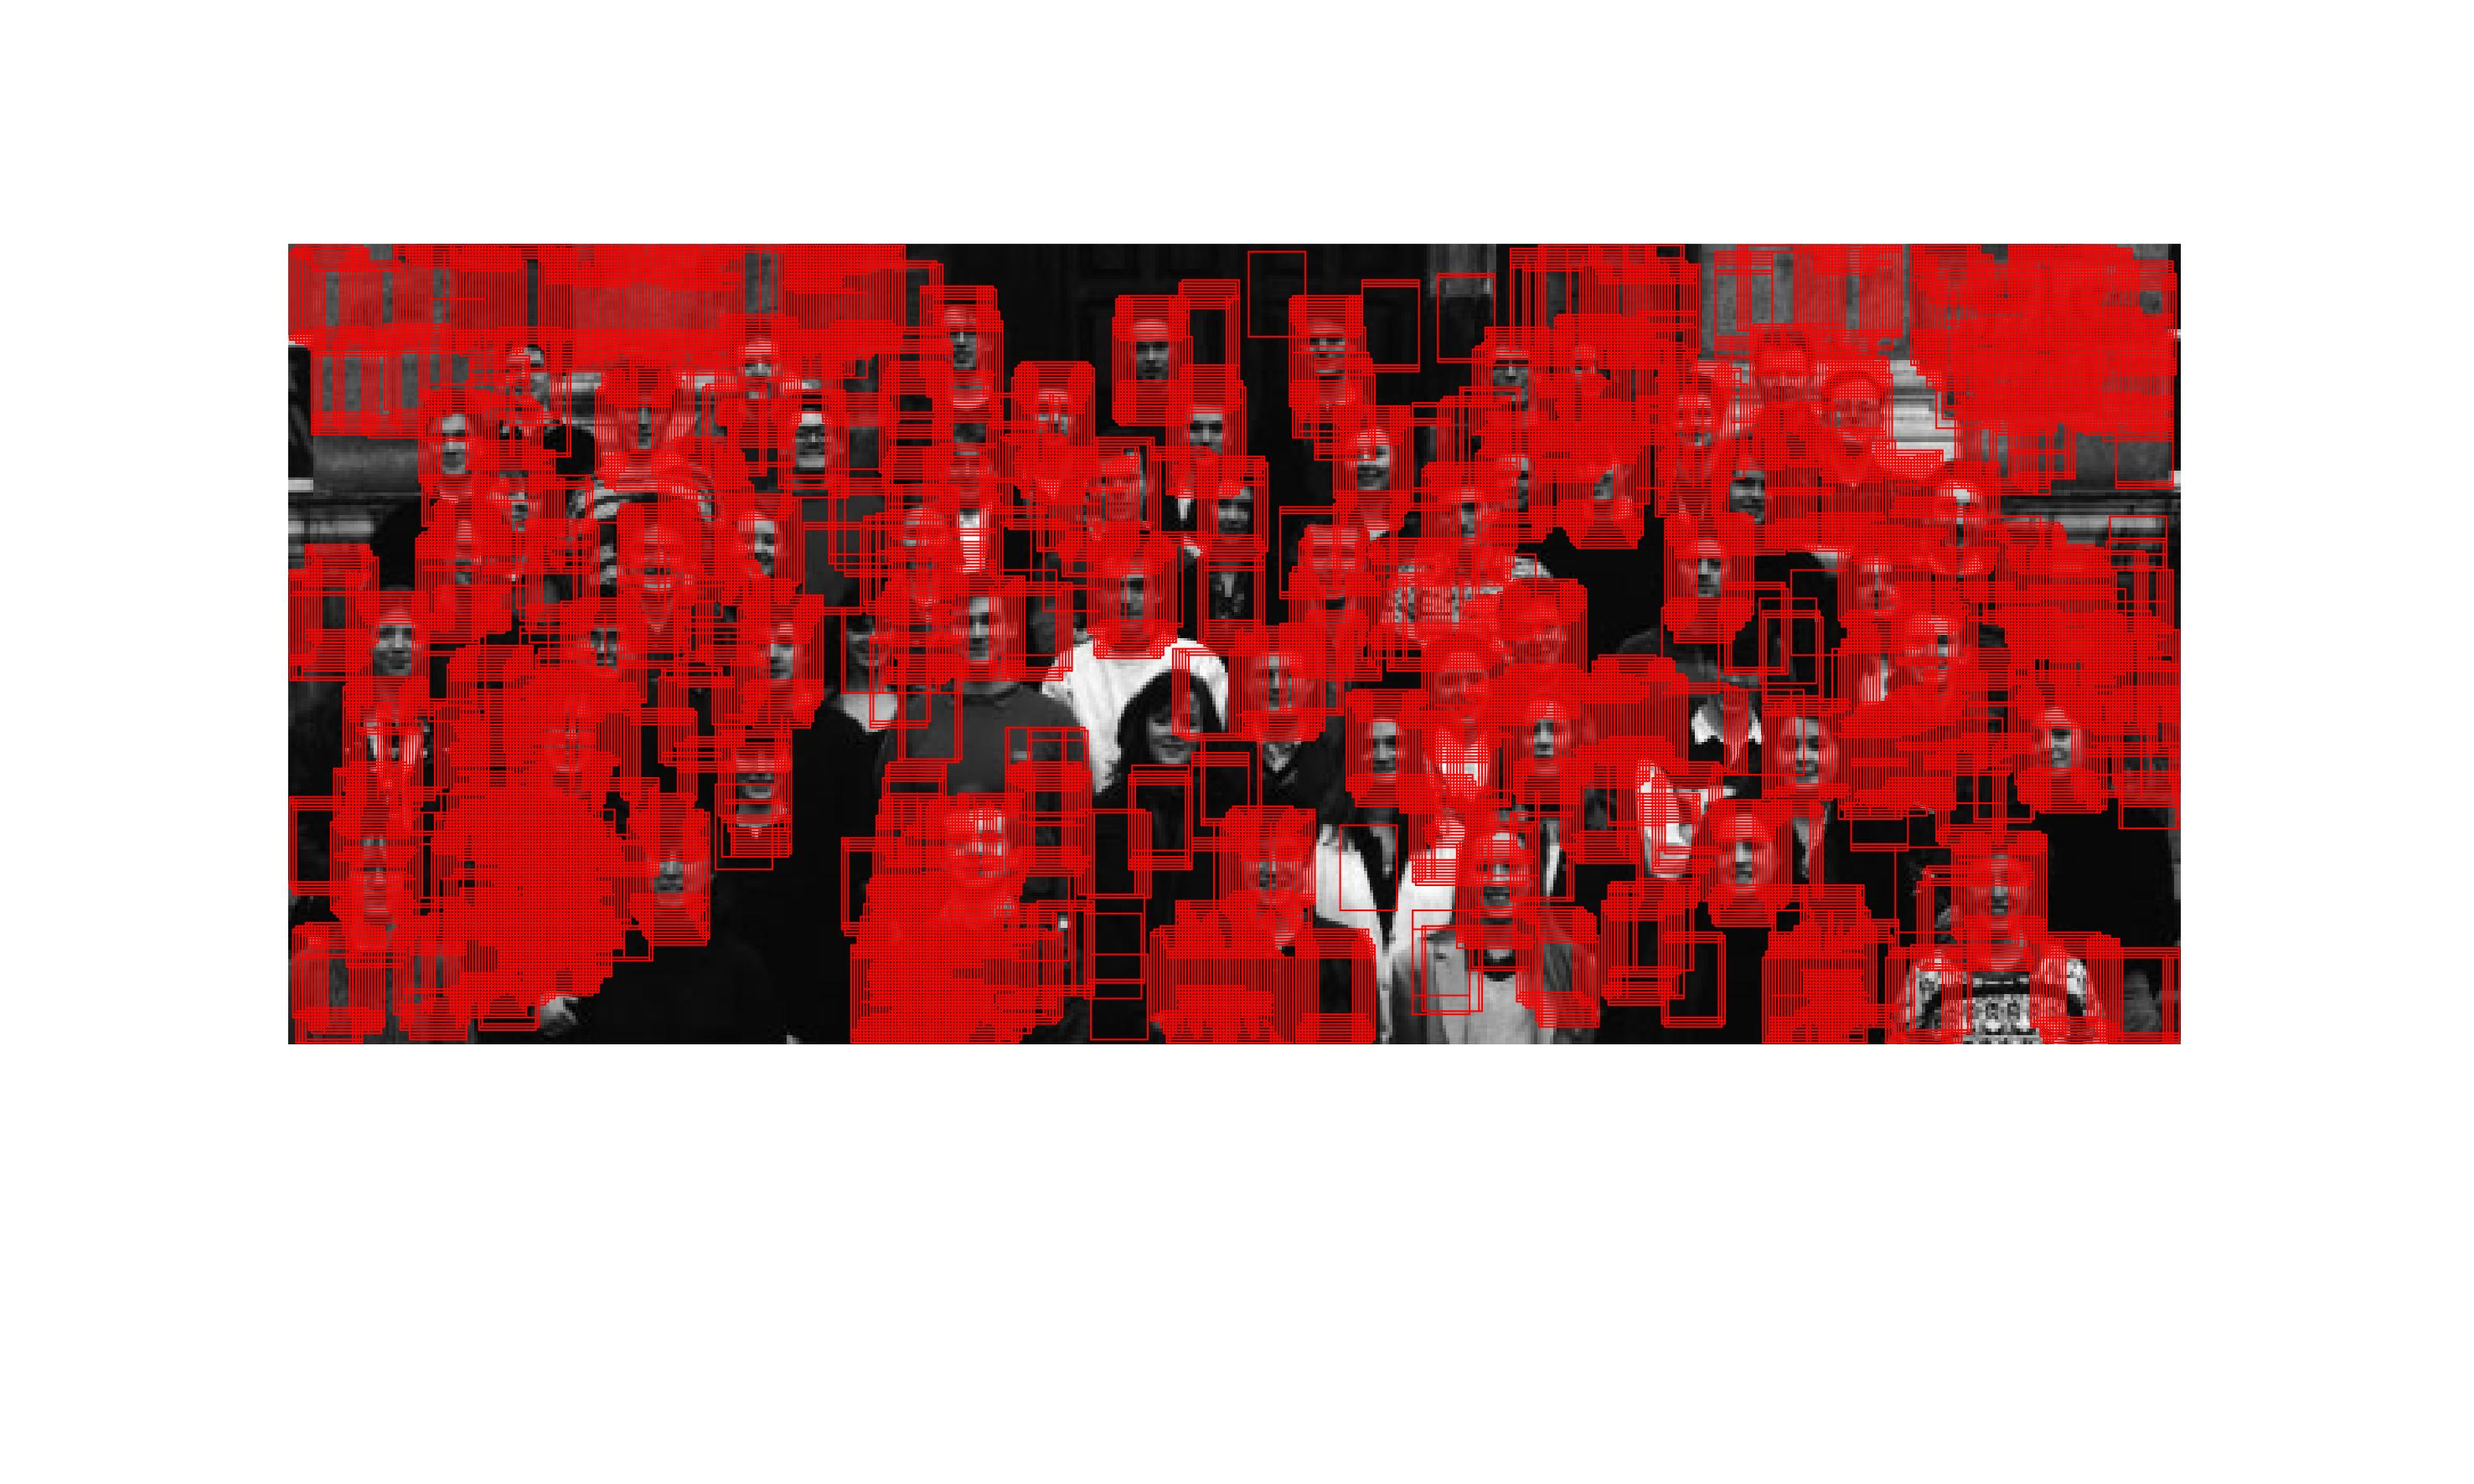
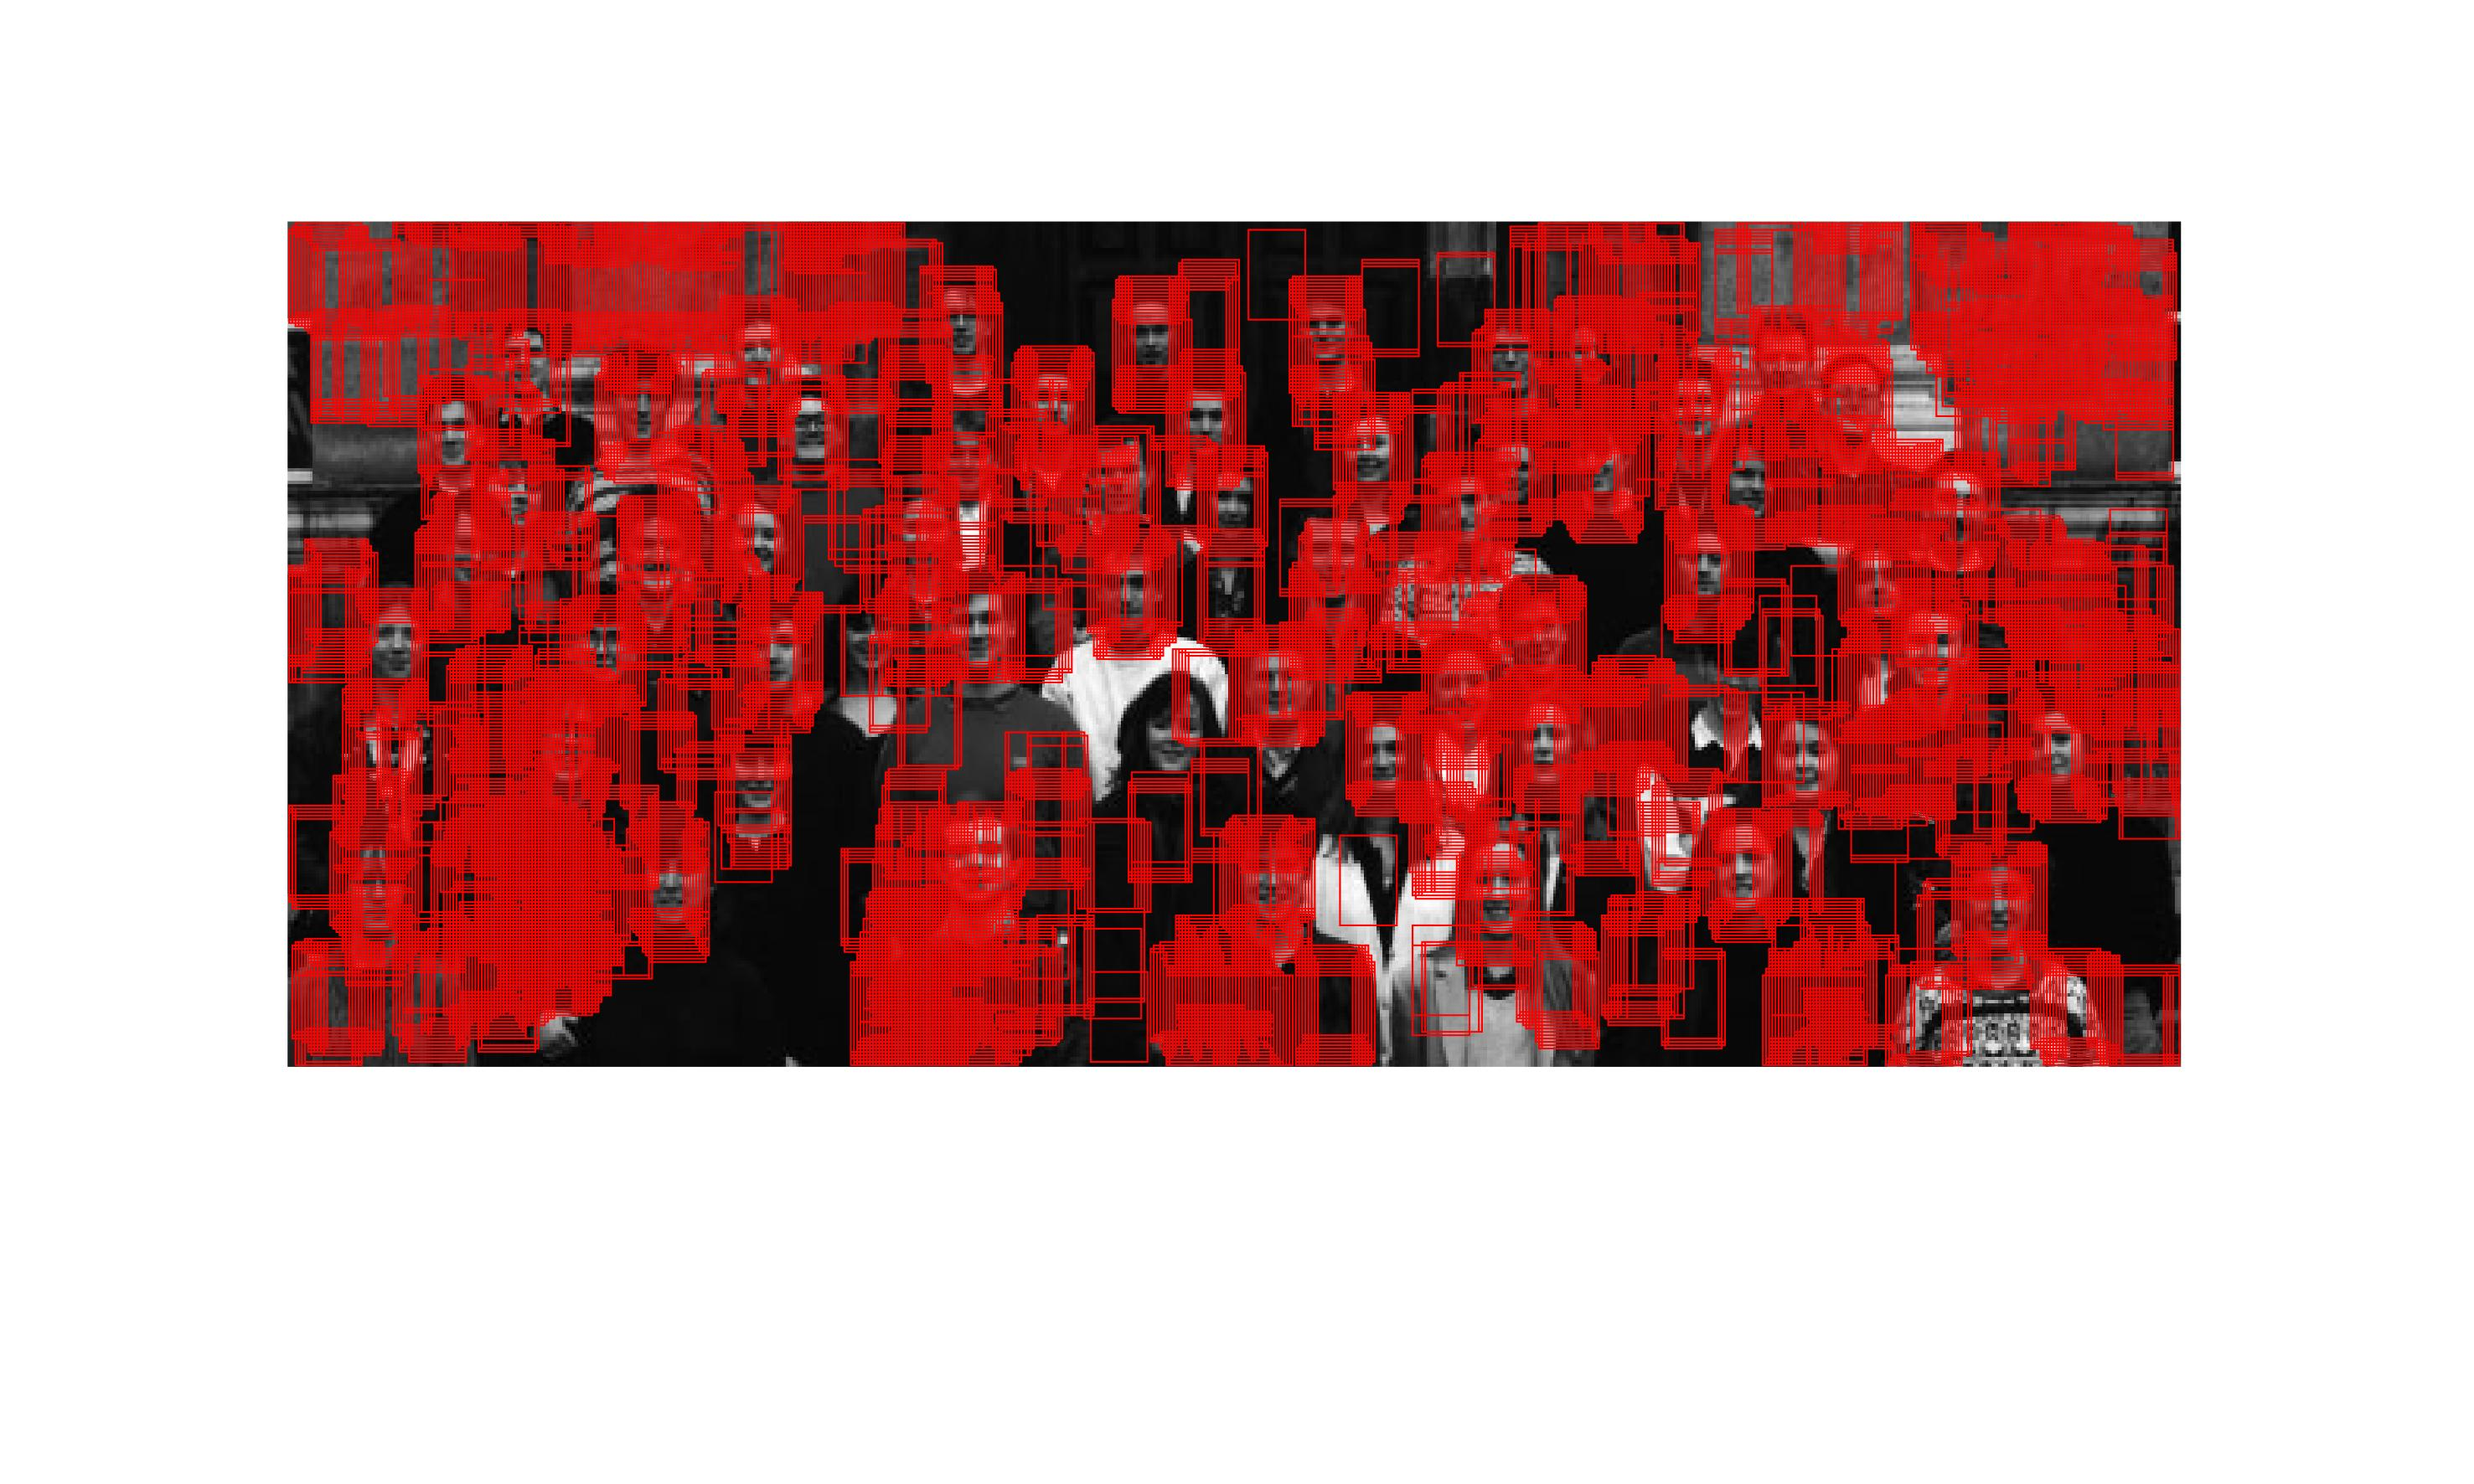
Added HogKNNDetector

Changed region(s): [[0.0935, 0.1242, 0.9035, 0.7449]]

diff --git a/code/reducedDimensionality_KNN_Detector.m b/code/reducedDimensionality_KNN_Detector.m
@@ -2,19 +2,21 @@ clear
 close all
 
 % Imports
+addpath('dataset');
 addpath('functions');
 addpath('functions/SVM-KM');
 addpath('functions/Detectors');
 
-load('hog_SVM.mat'); % Model name is SVM Model
+load('reducedDimensionality_NN.mat'); % Model name is SVM Model
 windowSize = [18, 27]; % Window Size is the size of the test set images
+nDimensions = 15;
 
 images{1} = imread('images/im1.jpg');
 images{2} = imread('images/im2.jpg');
 images{3} = imread('images/im3.jpg');
 images{4} = imread('images/im4.jpg');
 
-prefix = "results/hog_SVM_im";
+prefix = "results/reducedDimensionality_KNN_im";
 suffix = ".jpg";
 
 for iNumber = 1:4
@@ -25,9 +27,9 @@ for iNumber = 1:4
 
     % Gets boundingboxes for the test image, this should indicate a face
     % detected
-    bBoxes = HOGSVMDetector(SVMmodel, thisImg, windowSize);
+    bBoxes = ReducedDimensionalityKNNDetector(modelNN, thisImg, windowSize, nDimensions);
     fprintf("Bounding Boxes got for image number %d\n", iNumber);
-        
+    
     % Goes through all of the bounding boxes and displays them on the image
     for i = 1:size(bBoxes,1) 
         rectangle('Position',[bBoxes(i, 1),bBoxes(i, 2),windowSize(1),windowSize(2)],'LineWidth',1, 'EdgeColor','r');
@@ -38,6 +40,7 @@ for iNumber = 1:4
     set (gcf, 'PaperPositionMode', 'manual','PaperPosition',[0, 0, 50, 30])
     print(figure(iNumber),filename,'-djpeg'); 
     fprintf("Saved image number %d\n", iNumber);
+    
     fprintf("Finished image number %d\n", iNumber);
 end
 

diff --git a/code/fullImage_KNN_Detector.m b/code/fullImage_KNN_Detector.m
@@ -2,11 +2,12 @@ clear
 close all
 
 % Imports
+addpath('dataset');
 addpath('functions');
 addpath('functions/SVM-KM');
 addpath('functions/Detectors');
 
-load('hog_SVM.mat'); % Model name is SVM Model
+load('fullImage_SVM.mat'); % Model name is SVM Model
 windowSize = [18, 27]; % Window Size is the size of the test set images
 
 images{1} = imread('images/im1.jpg');
@@ -14,7 +15,7 @@ images{2} = imread('images/im2.jpg');
 images{3} = imread('images/im3.jpg');
 images{4} = imread('images/im4.jpg');
 
-prefix = "results/hog_SVM_im";
+prefix = "results/fullImage_SVM_im";
 suffix = ".jpg";
 
 for iNumber = 1:4
@@ -25,9 +26,9 @@ for iNumber = 1:4
 
     % Gets boundingboxes for the test image, this should indicate a face
     % detected
-    bBoxes = HOGSVMDetector(SVMmodel, thisImg, windowSize);
+    bBoxes = FullImageSVMDetector(modelSVM, thisImg, windowSize);
     fprintf("Bounding Boxes got for image number %d\n", iNumber);
-        
+    
     % Goes through all of the bounding boxes and displays them on the image
     for i = 1:size(bBoxes,1) 
         rectangle('Position',[bBoxes(i, 1),bBoxes(i, 2),windowSize(1),windowSize(2)],'LineWidth',1, 'EdgeColor','r');
@@ -38,6 +39,7 @@ for iNumber = 1:4
     set (gcf, 'PaperPositionMode', 'manual','PaperPosition',[0, 0, 50, 30])
     print(figure(iNumber),filename,'-djpeg'); 
     fprintf("Saved image number %d\n", iNumber);
+    
     fprintf("Finished image number %d\n", iNumber);
 end
 

diff --git a/code/gabor_KNN_Detector.m b/code/gabor_KNN_Detector.m
@@ -2,11 +2,12 @@ clear
 close all
 
 % Imports
+addpath('dataset');
 addpath('functions');
 addpath('functions/SVM-KM');
 addpath('functions/Detectors');
 
-load('hog_SVM.mat'); % Model name is SVM Model
+load('gabor_SVM.mat'); % Model name is SVM Model
 windowSize = [18, 27]; % Window Size is the size of the test set images
 
 images{1} = imread('images/im1.jpg');
@@ -14,7 +15,7 @@ images{2} = imread('images/im2.jpg');
 images{3} = imread('images/im3.jpg');
 images{4} = imread('images/im4.jpg');
 
-prefix = "results/hog_SVM_im";
+prefix = "results/gabor_SVM_im";
 suffix = ".jpg";
 
 for iNumber = 1:4
@@ -25,9 +26,9 @@ for iNumber = 1:4
 
     % Gets boundingboxes for the test image, this should indicate a face
     % detected
-    bBoxes = HOGSVMDetector(SVMmodel, thisImg, windowSize);
+    bBoxes = GaborSVMDetector(SVMmodel, thisImg, windowSize);
     fprintf("Bounding Boxes got for image number %d\n", iNumber);
-        
+    
     % Goes through all of the bounding boxes and displays them on the image
     for i = 1:size(bBoxes,1) 
         rectangle('Position',[bBoxes(i, 1),bBoxes(i, 2),windowSize(1),windowSize(2)],'LineWidth',1, 'EdgeColor','r');
@@ -38,6 +39,7 @@ for iNumber = 1:4
     set (gcf, 'PaperPositionMode', 'manual','PaperPosition',[0, 0, 50, 30])
     print(figure(iNumber),filename,'-djpeg'); 
     fprintf("Saved image number %d\n", iNumber);
+    
     fprintf("Finished image number %d\n", iNumber);
 end
 

diff --git a/code/hog_KNN_Detector.m b/code/hog_KNN_Detector.m
@@ -6,7 +6,7 @@ addpath('functions');
 addpath('functions/SVM-KM');
 addpath('functions/Detectors');
 
-load('hog_SVM.mat'); % Model name is SVM Model
+load('hog_KNN.mat'); % Model name is  NNmodel
 windowSize = [18, 27]; % Window Size is the size of the test set images
 
 images{1} = imread('images/im1.jpg');
@@ -14,7 +14,7 @@ images{2} = imread('images/im2.jpg');
 images{3} = imread('images/im3.jpg');
 images{4} = imread('images/im4.jpg');
 
-prefix = "results/hog_SVM_im";
+prefix = "results/hog_KNN_im";
 suffix = ".jpg";
 
 for iNumber = 1:4
@@ -25,9 +25,9 @@ for iNumber = 1:4
 
     % Gets boundingboxes for the test image, this should indicate a face
     % detected
-    bBoxes = HOGSVMDetector(SVMmodel, thisImg, windowSize);
+    bBoxes = HOGKNNDetector(NNmodel, thisImg, windowSize, 7);
     fprintf("Bounding Boxes got for image number %d\n", iNumber);
-        
+    
     % Goes through all of the bounding boxes and displays them on the image
     for i = 1:size(bBoxes,1) 
         rectangle('Position',[bBoxes(i, 1),bBoxes(i, 2),windowSize(1),windowSize(2)],'LineWidth',1, 'EdgeColor','r');

diff --git a/code/functions/Detectors/GaborKNNDetector.m b/code/functions/Detectors/GaborKNNDetector.m
@@ -1,0 +1,33 @@
+function [boundingBoxes] = GaborSVMDetector(model,image, windowSize)
+    row = 1;
+    col = 1;
+    [maxCol, maxRow] = size(image);
+
+    windowMax = 1;
+    for y = col:maxCol-windowSize(2)   
+        for x = row:maxRow-windowSize(1)
+            windowMax = windowMax+1;
+        end
+    end
+
+    results = zeros(windowMax,1);
+    boundingBox = zeros(windowMax,2);
+    windowNumber = 1;
+    pBar = textprogressbar(windowMax);
+    
+    for y = col:maxCol-windowSize(2)   
+        for x = row:maxRow-windowSize(1)
+            po = [x, y, windowSize(1), windowSize(2)];
+            img = imcrop(image, po); 
+            gab = gabor_feature_vector(img);
+            results(windowNumber) = SVMTesting(gab,model);
+            boundingBox(windowNumber, 1) = x;
+            boundingBox(windowNumber, 2) = y;
+            windowNumber = windowNumber+1;
+            pBar(windowNumber)
+        end
+    end
+
+    boundingBoxes = boundingBox(results == 1, :);
+end
+

diff --git a/code/functions/Detectors/HOGKNNDetector.m b/code/functions/Detectors/HOGKNNDetector.m
@@ -1,0 +1,33 @@
+function [boundingBoxes] = HOGKNNDetector(model,image, windowSize, n)
+    row = 1;
+    col = 1;
+    [maxCol, maxRow] = size(image);
+
+    windowMax = 1;
+    for y = col:maxCol-windowSize(2)   
+        for x = row:maxRow-windowSize(1)
+            windowMax = windowMax+1;
+        end
+    end
+
+    results = zeros(windowMax,1);
+    boundingBox = zeros(windowMax,2);
+    windowNumber = 1;
+    pBar = textprogressbar(windowMax);
+
+    for y = col:maxCol-windowSize(2)   
+        for x = row:maxRow-windowSize(1)
+            po = [x, y, windowSize(1), windowSize(2)];
+            img = imcrop(image, po); 
+            gab = hog_feature_vector(img);
+            results(windowNumber) = KNNTesting(gab,model, n);
+            boundingBox(windowNumber, 1) = x;
+            boundingBox(windowNumber, 2) = y;
+            windowNumber = windowNumber+1;
+            pBar(windowNumber)
+        end
+    end
+
+    boundingBoxes = boundingBox(results == 1, :);
+end
+

diff --git a/code/functions/simpleNMS.m b/code/functions/simpleNMS.m
@@ -1,0 +1,24 @@
+function [nmsBoxes] = simpleNMS(boundingBoxes, threshold, windowSize)
+    nmsBoxes = boundingBoxes;
+    
+    pBar = textprogressbar(length(nmsBoxes) * length(nmsBoxes));
+    
+    for i = 1:size(nmsBoxes)
+       thisBox = [nmsBoxes(i, 1), nmsBoxes(i, 2), windowSize(1) , windowSize(2)];
+       thisBoxArea = windowSize(1) * windowSize(2);
+       for j = 1:size(nmsBoxes)
+           detectedBox = [nmsBoxes(j, 1), nmsBoxes(j, 2), windowSize(1) , windowSize(2)];
+           intersectionArea = rectint(thisBox , detectedBox);
+           
+           deltaArea = intersectionArea / thisBoxArea;
+           
+           if (deltaArea > threshold)
+              nmsBoxes(i, 1) = 0;
+              nmsBoxes(i, 2) = 0;
+           end
+           
+           pBar(i*i);
+       end
+    end
+end
+
